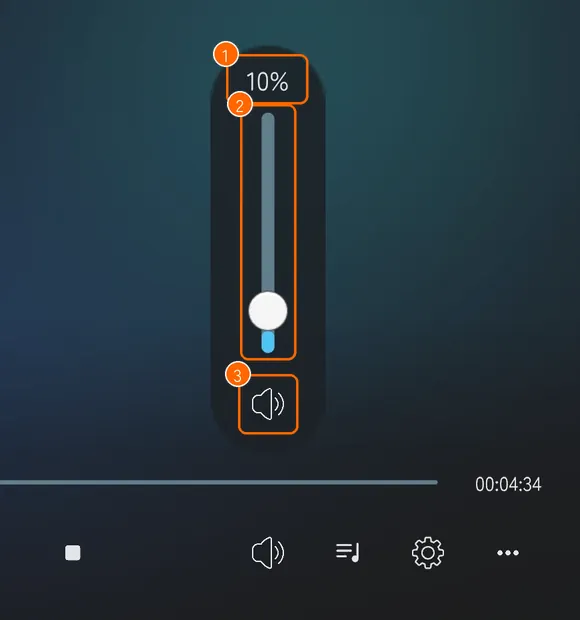
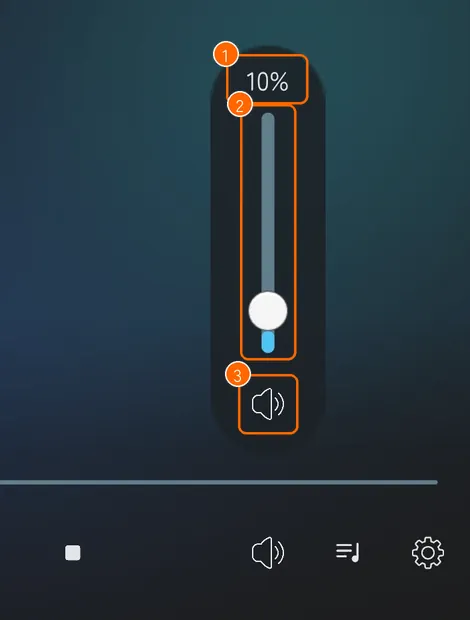
docs(release): date the 1.4.0 notes, and keep the old button out of the guide's volume picture

diff --git a/docs/guide/images/annotate.py b/docs/guide/images/annotate.py
@@ -278,7 +278,7 @@ MARKS = {
     "screen/resync": dict(src="screen/controls", crop=(0, 450, 700, 720), scale=0.667, marks=[
         dict(box=(120, 621, 184, 685), cap="ReSync（押した人の画面だけ）", at=(400, 500)),
     ]),
-    "screen/volume": dict(crop=(700, 100, 1280, 720), scale=0.667, marks=[
+    "screen/volume": dict(crop=(700, 100, 1170, 720), scale=0.667, marks=[
         dict(box=(930, 158, 1004, 200), n=1),
         dict(box=(944, 208, 992, 456), n=2),
         dict(box=(942, 478, 994, 530), n=3),

diff --git a/docs/releases/README.md b/docs/releases/README.md
@@ -6,7 +6,7 @@ KawaPlayer の版ごとの変更です。1.2.0 からは、同じノートが Gi
 
 | 版 | 日付 | ノート |
 | --- | --- | --- |
-| 1.4.0 | 2026-10-30 | [1.4.0.md](1.4.0.md) |
+| 1.4.0 | 2026-11-07 | [1.4.0.md](1.4.0.md) |
 | 1.3.4 | 2026-10-29 | [1.3.4.md](1.3.4.md) |
 | 1.3.3 | 2026-10-23 | [1.3.3.md](1.3.3.md) |
 | 1.3.2 | 2026-10-21 | [1.3.2.md](1.3.2.md) |

diff --git a/docs/releases/1.4.0.md b/docs/releases/1.4.0.md
@@ -1,4 +1,4 @@
-**KawaPlayer 1.4.0** — 2026-10-30
+**KawaPlayer 1.4.0** — 2026-11-07
 
 スクリーンの見た目と操作を、まるごと作り直しました。
 
